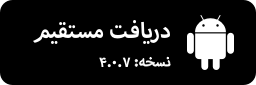
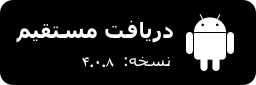
Release 4.0.8 - 2.0.8

diff --git a/index.htm b/index.htm
@@ -230,24 +230,24 @@
 
                     <div class="center-align download-btns">
 
-                        <a href="https://redirect.appmetrica.yandex.com/serve/172312427508083257?v=4.0.7"
-                            onclick="gtag_report_conversion('https://redirect.appmetrica.yandex.com/serve/172312427508083257?v=4.0.7')">
-                            <img src="assets/img/btn/DownloadDirectFA.png?v=4.0.7"
+                        <a href="https://redirect.appmetrica.yandex.com/serve/172312427508083257?v=4.0.8"
+                            onclick="gtag_report_conversion('https://redirect.appmetrica.yandex.com/serve/172312427508083257?v=4.0.8')">
+                            <img src="assets/img/btn/DownloadDirectFA.png?v=4.0.8"
                                 alt="دکمه دانلود مستقیم فایل اندروید">
                         </a>
-                        <a href="https://redirect.appmetrica.yandex.com/serve/963685243733231438?v=4.0.7"
-                            onclick="gtag_report_conversion('https://redirect.appmetrica.yandex.com/serve/963685243733231438?v=4.0.7')">
-                            <img src="assets/img/btn/CafeBazar-Badge.png?v=4.0.7"
+                        <a href="https://redirect.appmetrica.yandex.com/serve/963685243733231438?v=4.0.8"
+                            onclick="gtag_report_conversion('https://redirect.appmetrica.yandex.com/serve/963685243733231438?v=4.0.8')">
+                            <img src="assets/img/btn/CafeBazar-Badge.png?v=4.0.8"
                                 alt="دکمه دانلود بازی کلماتیک برای اندروید از کافه بازار">
                         </a>
-                        <a href="https://redirect.appmetrica.yandex.com/serve/1181118785915021816?v=4.0.7"
-                            onclick="gtag_report_conversion('https://redirect.appmetrica.yandex.com/serve/1181118785915021816?v=4.0.7')">
-                            <img src="assets/img/btn/Myket-Badge.png?v=4.0.7"
+                        <a href="https://redirect.appmetrica.yandex.com/serve/1181118785915021816?v=4.0.8"
+                            onclick="gtag_report_conversion('https://redirect.appmetrica.yandex.com/serve/1181118785915021816?v=4.0.8')">
+                            <img src="assets/img/btn/Myket-Badge.png?v=4.0.8"
                                 alt="دکمه دانلود بازی کلماتیک برای اندروید از مایکت">
                         </a>
                         <a href="https://redirect.appmetrica.yandex.com/serve/243823473116400451"
                             onclick="gtag_report_conversion('https://redirect.appmetrica.yandex.com/serve/243823473116400451')">
-                            <img src="assets/img/btn/appstore.jpg?v=2.0.7"
+                            <img src="assets/img/btn/appstore.jpg?v=2.0.8"
                                 alt="دکمه دانلود بازی کلماتیک برای iOS (آیفون)">
                         </a>
 
